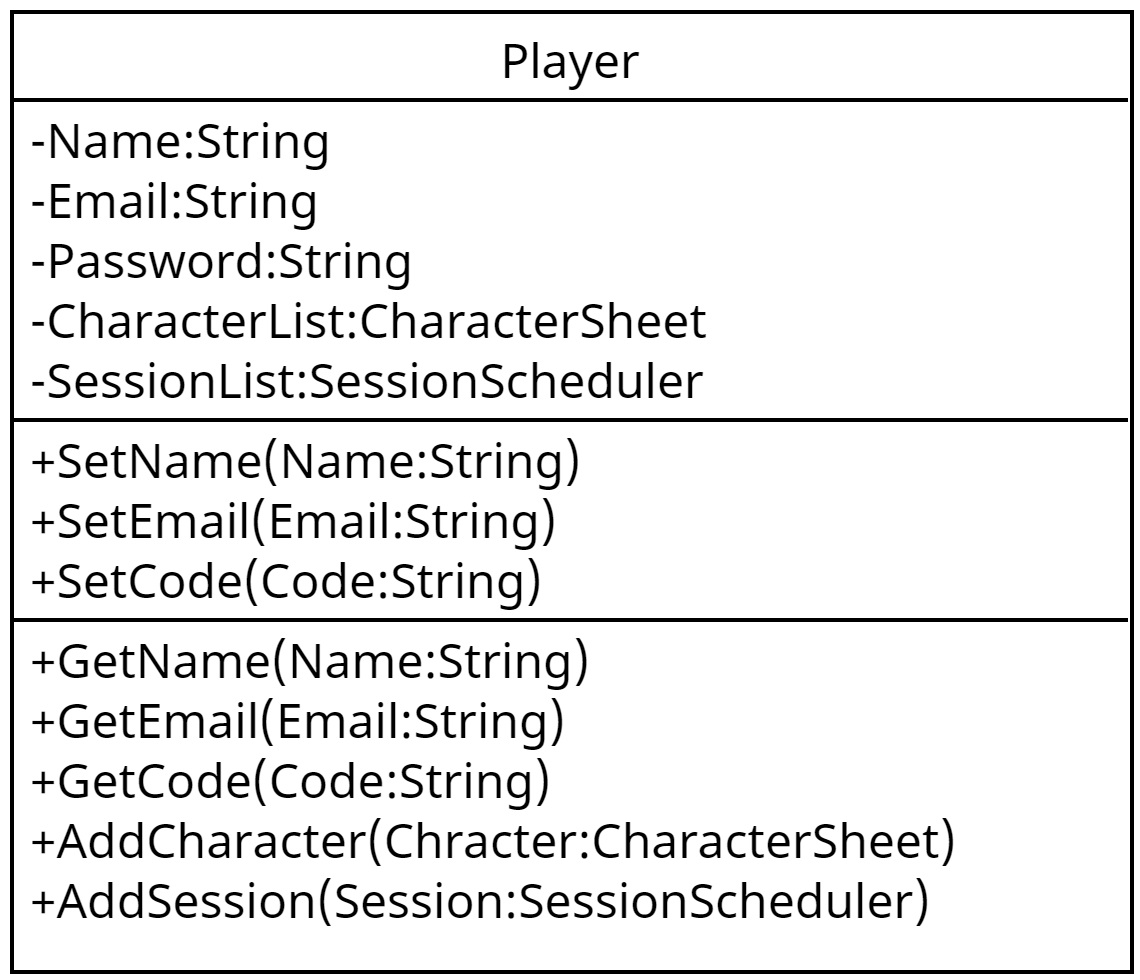
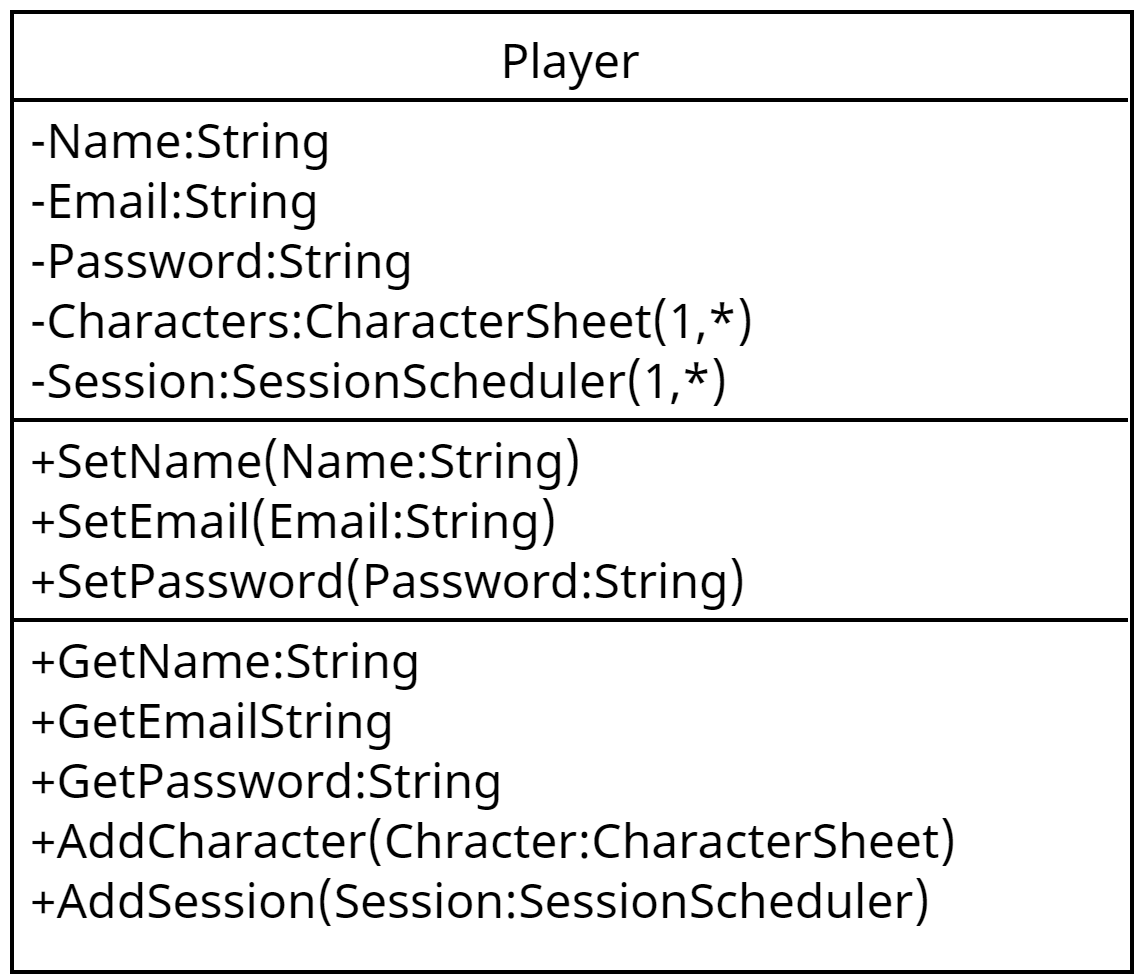
Update the class diagrams and the java files

Changed region(s): [[0.0921, 0.551, 0.6754, 0.8265], [0.1842, 0.3061, 0.6754, 0.4286]]

diff --git a/Code/SessionScheduler.java b/Code/SessionScheduler.java
@@ -8,6 +8,7 @@ import java.util.Scanner;
 public class SessionScheduler {
     private String sender,description,location,time;
     private List<String> Recipients;
+    private LocalDate Date;
 
     public SessionScheduler(){
         this.sender="";
@@ -16,33 +17,22 @@ public class SessionScheduler {
         this.time="";
         this.Recipients=new ArrayList<String>();
     }
-    public void getSender(String Sender){
+    public void setSender(String Sender){
         this.sender=Sender;
     }
-    public void getRecipents(List<String> Emails){
+    public void setRecipents(List<String> Emails){
         Recipients=Emails;
     }
-    public void getDescription(String Description){
+    public void setDescription(String Description){
         this.description=Description;
     }
-    public void getDate(){
-        Scanner scanner = new Scanner(System.in);
-        System.out.print("Enter the date (yyyy-MM-dd): ");
-        String userInput = scanner.nextLine();
-        DateTimeFormatter formatter = DateTimeFormatter.ofPattern("yyyy-MM-dd");
-        try {
-            LocalDate inputDate = LocalDate.parse(userInput, formatter);
-            System.out.println("Parsed Date: " + inputDate);
-        } catch (Exception e) {
-            System.out.println("Invalid input. Please enter the date in the yyyy-MM-dd format.");
-        } finally {
-            scanner.close();
-        }
+    public void setDate(LocalDate date){
+        this.Date=date;
     }
-    public void getLocation(String Location){
+    public void setLocation(String Location){
         this.location=Location;
     }
-    public void getTime(String Time){
+    public void setTime(String Time){
         this.time=Time;
     }
     public void sendEmail(){
